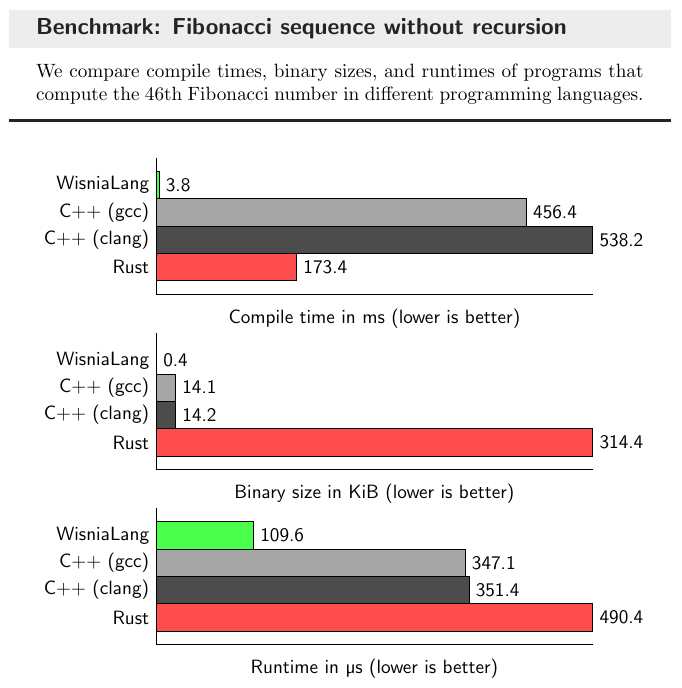
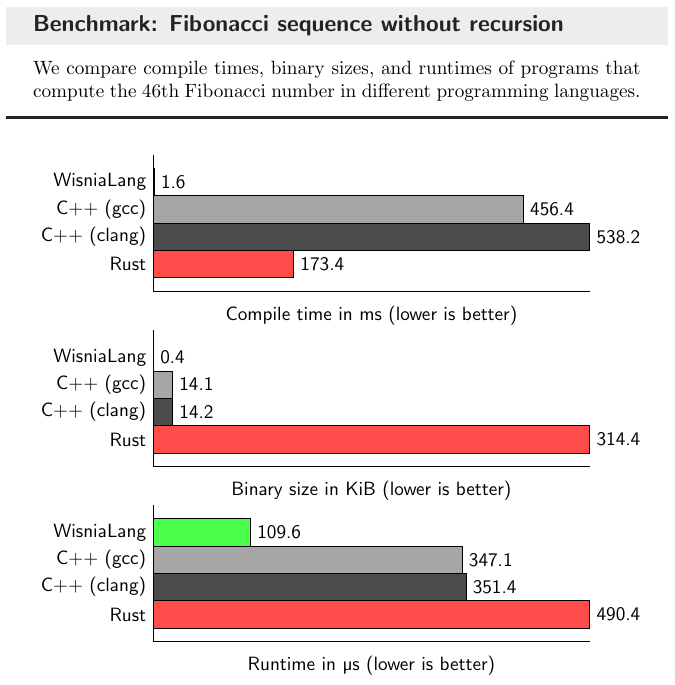
deploy: ef78635cb688779ab5cc95555b2fae3a5f35273f

diff --git a/wisnialang-compiler-project/index.html b/wisnialang-compiler-project/index.html
@@ -80,8 +80,8 @@
 </span></span><span style=display:flex><span style="white-space:pre;-webkit-user-select:none;user-select:none;margin-right:.4em;padding:0 .4em;color:#756d59">17</span><span>}
 </span></span></code></pre></div><h4>Compile time</h4><div class=highlight><pre tabindex=0 style=color:#ebdbb2;background-color:#282828;-moz-tab-size:4;-o-tab-size:4;tab-size:4><code class=language-bash data-lang=bash><span style=display:flex><span style="white-space:pre;-webkit-user-select:none;user-select:none;margin-right:.4em;padding:0 .4em;color:#756d59">1</span><span>hyperfine --runs <span style=color:#d3869b>1000</span> --warmup <span style=color:#d3869b>10</span> --shell<span style=color:#fe8019>=</span>none <span style=color:#b8bb26>&#39;./wisnia fibonacci.wsn&#39;</span>
 </span></span><span style=display:flex><span style="white-space:pre;-webkit-user-select:none;user-select:none;margin-right:.4em;padding:0 .4em;color:#756d59">2</span><span>Benchmark 1: ./wisnia fibonacci.wsn
-</span></span><span style=display:flex><span style="white-space:pre;-webkit-user-select:none;user-select:none;margin-right:.4em;padding:0 .4em;color:#756d59">3</span><span>  Time <span style=color:#fe8019>(</span>mean ± σ<span style=color:#fe8019>)</span>:       3.8 ms ±   0.3 ms    <span style=color:#fe8019>[</span>User: 3.0 ms, System: 0.6 ms<span style=color:#fe8019>]</span>
-</span></span><span style=display:flex><span style="white-space:pre;-webkit-user-select:none;user-select:none;margin-right:.4em;padding:0 .4em;color:#756d59">4</span><span>  Range <span style=color:#fe8019>(</span>min … max<span style=color:#fe8019>)</span>:     3.4 ms …   6.5 ms    <span style=color:#d3869b>1000</span> runs
+</span></span><span style=display:flex><span style="white-space:pre;-webkit-user-select:none;user-select:none;margin-right:.4em;padding:0 .4em;color:#756d59">3</span><span>  Time <span style=color:#fe8019>(</span>mean ± σ<span style=color:#fe8019>)</span>:       1.6 ms ±   0.3 ms    <span style=color:#fe8019>[</span>User: 0.8 ms, System: 0.5 ms<span style=color:#fe8019>]</span>
+</span></span><span style=display:flex><span style="white-space:pre;-webkit-user-select:none;user-select:none;margin-right:.4em;padding:0 .4em;color:#756d59">4</span><span>  Range <span style=color:#fe8019>(</span>min … max<span style=color:#fe8019>)</span>:     1.3 ms …   8.7 ms    <span style=color:#d3869b>1000</span> runs
 </span></span></code></pre></div><h4>Runtime</h4><div class=highlight><pre tabindex=0 style=color:#ebdbb2;background-color:#282828;-moz-tab-size:4;-o-tab-size:4;tab-size:4><code class=language-bash data-lang=bash><span style=display:flex><span style="white-space:pre;-webkit-user-select:none;user-select:none;margin-right:.4em;padding:0 .4em;color:#756d59">1</span><span>hyperfine --runs <span style=color:#d3869b>1000</span> --warmup <span style=color:#d3869b>10</span> --shell<span style=color:#fe8019>=</span>none <span style=color:#b8bb26>&#39;./a.out&#39;</span>
 </span></span><span style=display:flex><span style="white-space:pre;-webkit-user-select:none;user-select:none;margin-right:.4em;padding:0 .4em;color:#756d59">2</span><span>Benchmark 1: ./a.out
 </span></span><span style=display:flex><span style="white-space:pre;-webkit-user-select:none;user-select:none;margin-right:.4em;padding:0 .4em;color:#756d59">3</span><span>  Time <span style=color:#fe8019>(</span>mean ± σ<span style=color:#fe8019>)</span>:     109.6 µs ±  36.8 µs    <span style=color:#fe8019>[</span>User: 58.2 µs, System: 4.7 µs<span style=color:#fe8019>]</span>
